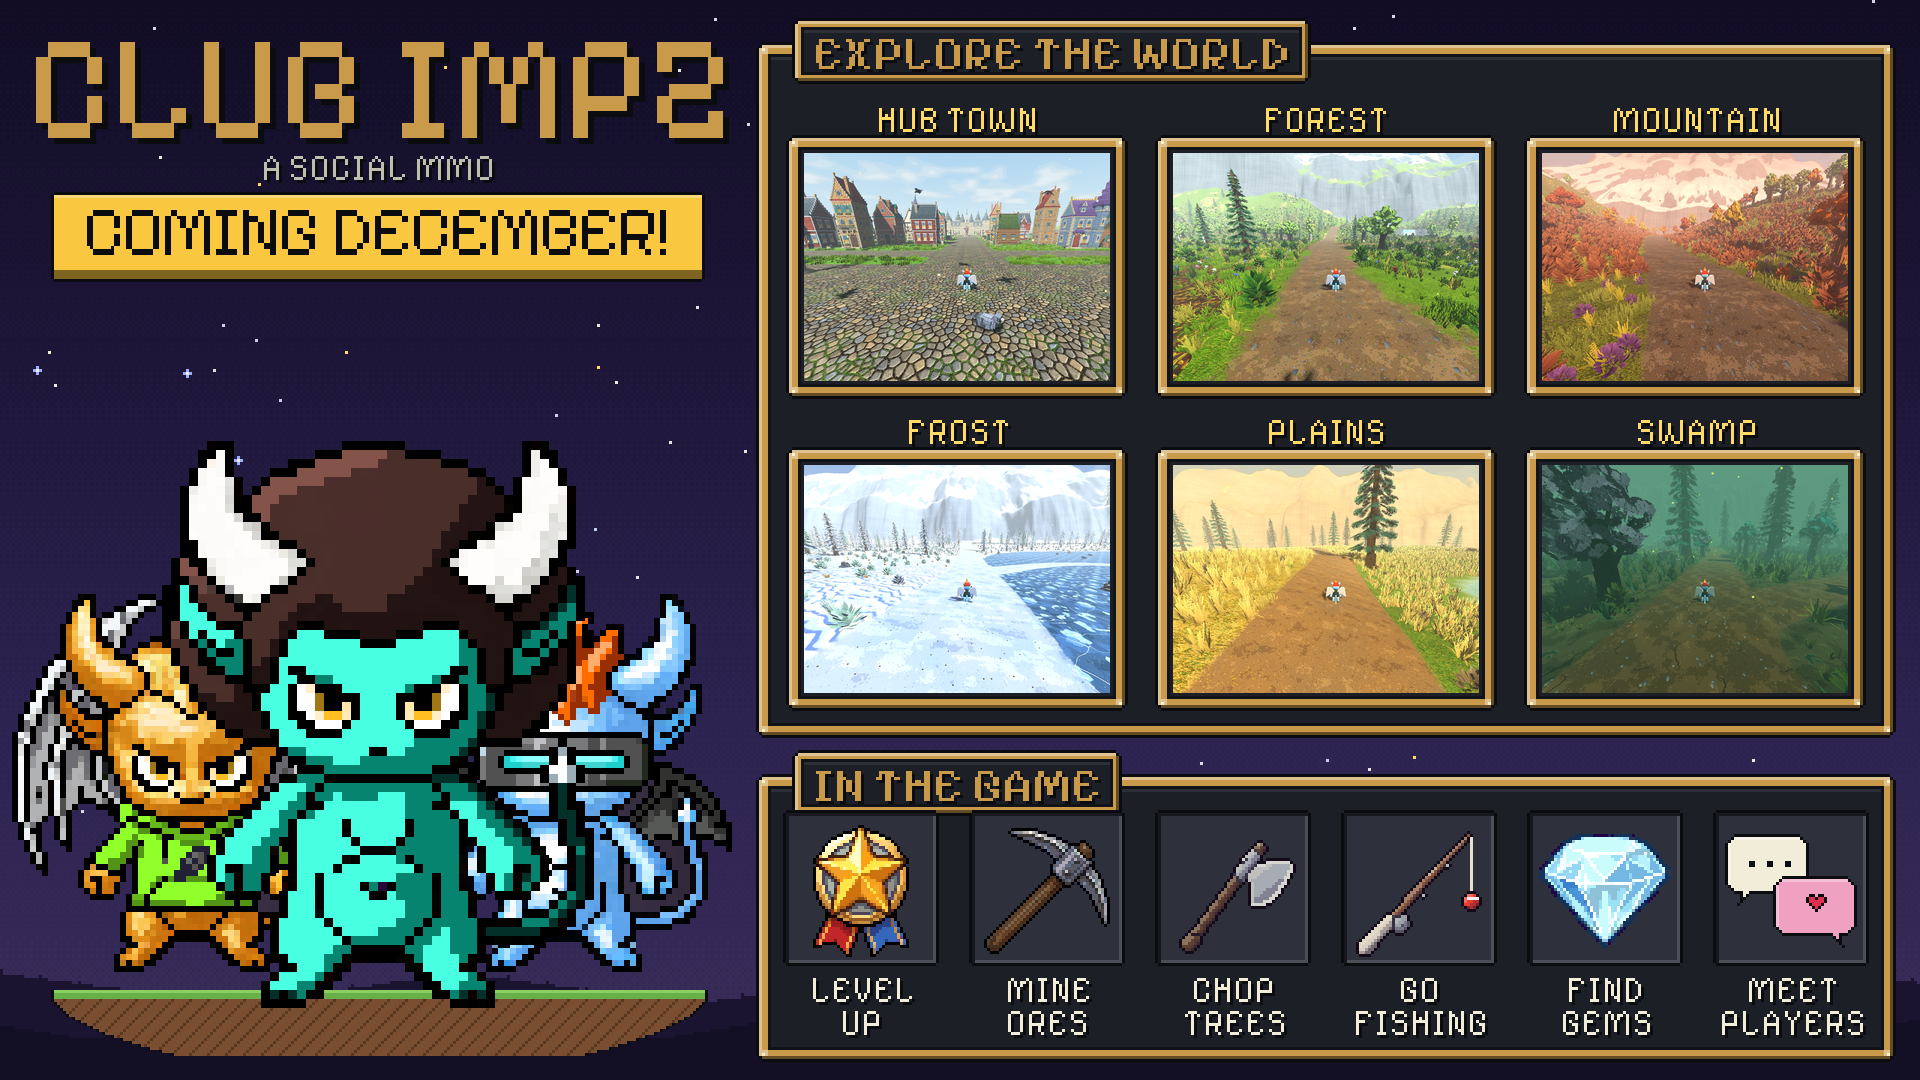
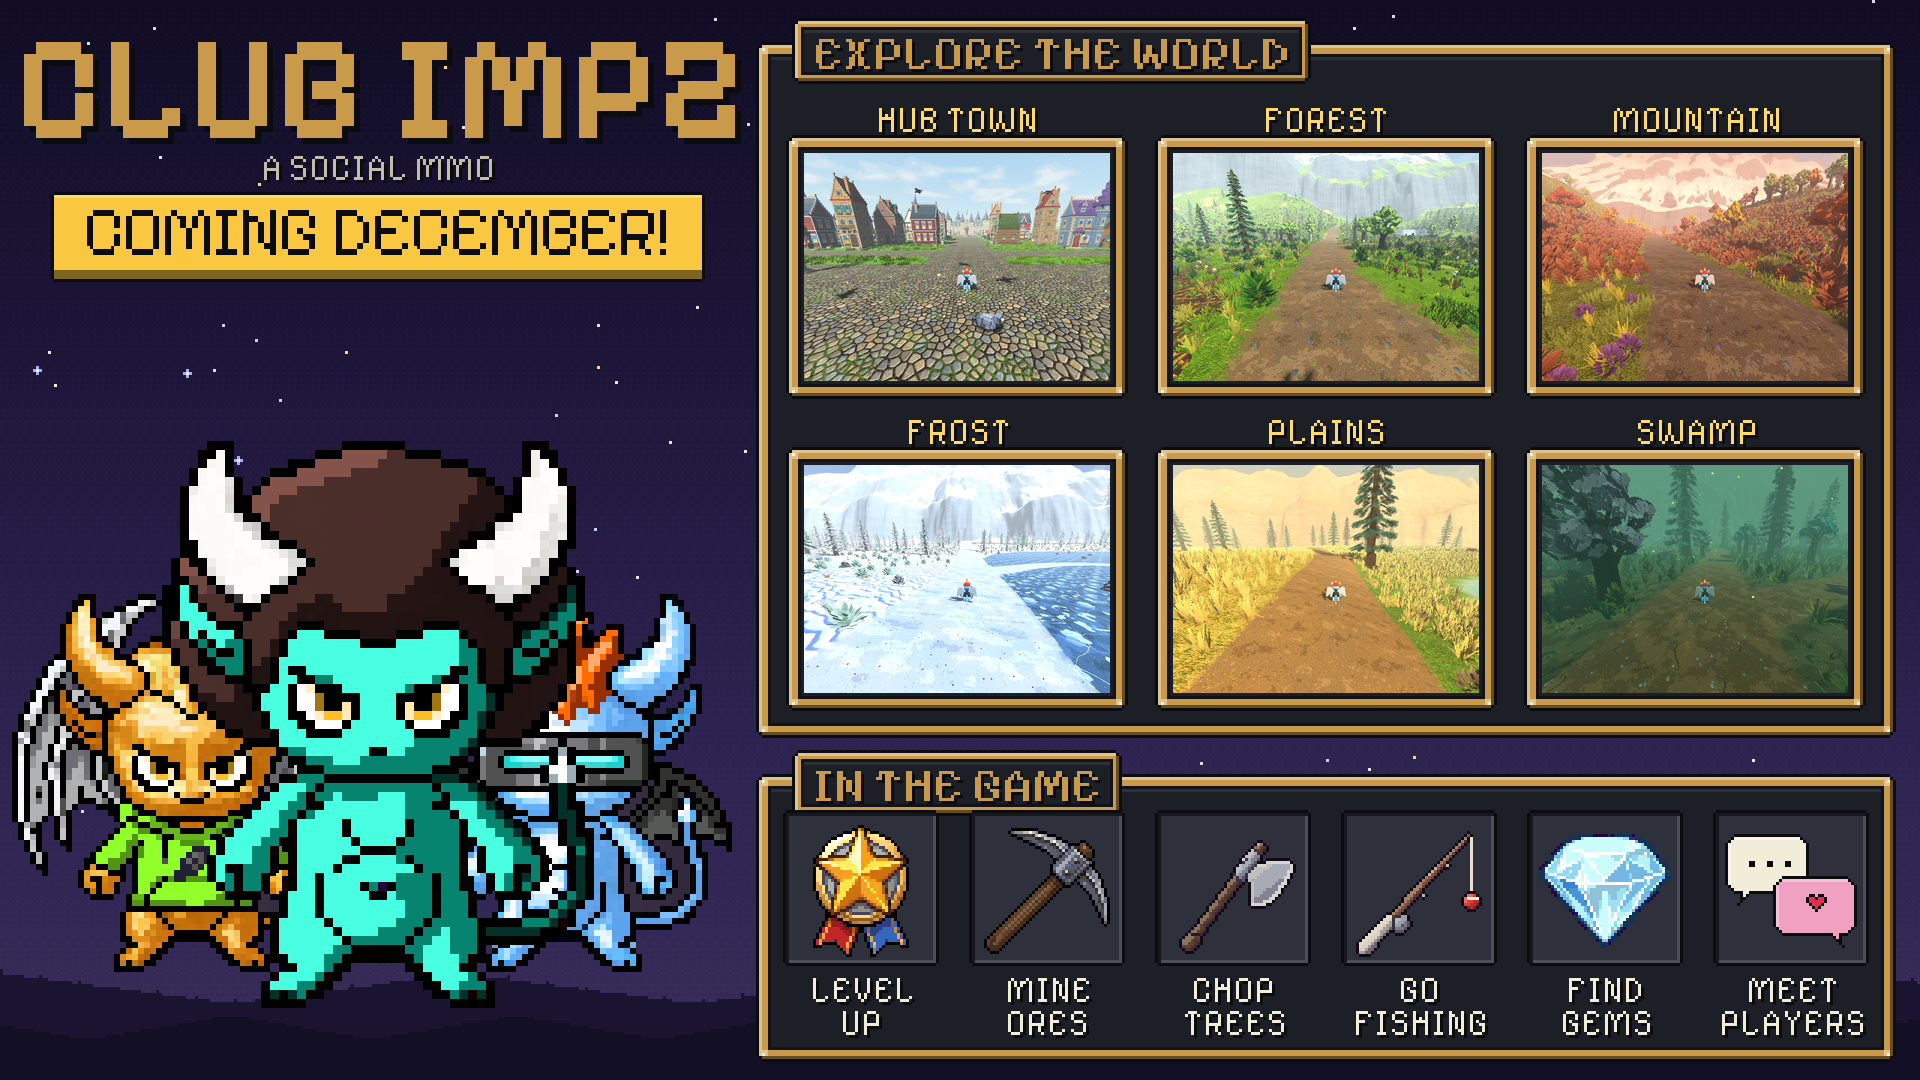
Poster: bold title, no ground under the Impz, 3D Impz version
- CLUB IMPZ uses Pixelify Sans Bold (the font's variable weight axis).
- The grass island under the heroes is gone.
- `--3d` writes first_release_poster_3d.png with the three Impz rendered from
  their Blockbench models (tools/posters/render_impz.gd, the game's ImpBuilder),
  so the 2D and 3D versions can be compared.

Changed region(s): [[0.0312, 0.9167, 0.375, 0.9778], [0.2188, 0.0306, 0.4062, 0.1528], [0.0, 0.0306, 0.1875, 0.1222]]

diff --git a/tools/posters/first_release_poster.py b/tools/posters/first_release_poster.py
@@ -4,17 +4,22 @@ Follows docs/posters.md: drawn on a 640 x 360 art canvas in the menu look
 (ui_kit.gd colours, gold bevelled frames, Pixelify Sans), then scaled x3 with
 nearest-neighbour to 1920 x 1080.
 
-    python tools/posters/first_release_poster.py
+    python tools/posters/first_release_poster.py         # 2D pixel Impz (the collection art)
+    python tools/posters/first_release_poster.py --3d    # 3D Impz (Blockbench renders)
 
-Writes docs/images/posters/first_release_poster.png.
+Writes docs/images/posters/first_release_poster.png, or first_release_poster_3d.png with --3d.
+The 3D renders come from tools/posters/render_impz.gd.
 """
 from pathlib import Path
 import random
+import sys
 
 from PIL import Image, ImageDraw, ImageFont
 
 ROOT = Path(__file__).resolve().parents[2]
-OUT = ROOT / "docs/images/posters/first_release_poster.png"
+HEROES_3D = "--3d" in sys.argv
+OUT = ROOT / ("docs/images/posters/first_release_poster_3d.png" if HEROES_3D else "docs/images/posters/first_release_poster.png")
+RENDERS = ROOT / "docs/images/posters/first_release_impz_3d"
 FONT = ROOT / "godot-game/ui/fonts/PixelifySans.ttf"
 ITEMS = ROOT / "godot-game/assets/sprites/source/items"
 PICKAXES = ROOT / "godot-game/assets/sprites/source/pickaxes"
@@ -65,8 +70,11 @@ draw = ImageDraw.Draw(img)
 draw.fontmode = "1"     # no anti-aliasing on text
 
 
-def font(size):
-    return ImageFont.truetype(str(FONT), size)
+def font(size, bold=False):
+    f = ImageFont.truetype(str(FONT), size)
+    if bold:
+        f.set_variation_by_name("Bold")   # Pixelify Sans is a variable font, 400 to 700
+    return f
 
 
 # ---------------------------------------------------------------- primitives
@@ -185,15 +193,15 @@ def pill(x0, y0, w, h, fill, lip=2):
             put(x0 + x, y0 + y, col)
 
 
-def text(x, y, s, size, color, shadow=2, anchor="la"):
-    f = font(size)
+def text(x, y, s, size, color, shadow=2, anchor="la", bold=False):
+    f = font(size, bold)
     if shadow:
         draw.text((x + shadow, y + shadow), s, font=f, fill=OUTLINE, anchor=anchor)
     draw.text((x, y), s, font=f, fill=color, anchor=anchor)
 
 
-def text_w(s, size):
-    b = font(size).getbbox(s)
+def text_w(s, size, bold=False):
+    b = font(size, bold).getbbox(s)
     return b[2] - b[0]
 
 
@@ -324,8 +332,8 @@ for n, (a, b, icon) in enumerate(FEATURES):
 # ---------------------------------------------------------------- left: title
 
 LX, LW = 8, 236
-tw = text_w("CLUB IMPZ", 48)
-text(LX + LW // 2 - tw // 2, 0, "CLUB IMPZ", 48, GOLD, shadow=2)
+tw = text_w("CLUB IMPZ", 48, bold=True)
+text(LX + LW // 2 - tw // 2, 0, "CLUB IMPZ", 48, GOLD, shadow=2, bold=True)
 sub = "A SOCIAL MMO"
 text(LX + LW // 2 - text_w(sub, 12) // 2, 48, sub, 12, MUTED, shadow=1)
 # COMING DECEMBER! on a raised amber pill
@@ -361,27 +369,15 @@ def cut_out(path):
     return im
 
 
-def ground(cx, top, half, depth):
-    """A small floating grass island for the heroes to stand on."""
-    for j in range(depth):
-        hw = half - (j * j) // max(depth // 2, 1) if j > 3 else half
-        for i in range(-hw, hw + 1):
-            if j < 3:
-                c = hexc("#6ab04a") if j else hexc("#8ad060")
-            else:
-                c = hexc("#7a4e30") if (i + j) % 6 else hexc("#5a3820")
-            put(cx + i, top + j, c)
-        put(cx - hw - 1, top + j, OUTLINE)
-        put(cx + hw + 1, top + j, OUTLINE)
-
-
-ground(LX + LW // 2, 330, 108, 22)
-left = cut_out(BODIES / "body_gold_408.png")
-right = cut_out(BODIES / "body_diamond_158.png")
-hero = cut_out(BODIES / "body_cyan_111.png")
-paste(left, LX - 8, 330 - 134, 2)
-paste(right, LX + LW - 120, 330 - 134, 2)
-paste(hero, LX + LW // 2 - 96, 330 - 186, 3)
+hero_slots = []          # 3D renders: (file, art x, art y, art size), pasted at full size after the x3 scale
+if HEROES_3D:
+    hero_slots += [(RENDERS / "gold_408.png", LX - 20, 188, 140),
+                   (RENDERS / "diamond_158.png", LX + LW - 124, 188, 140),
+                   (RENDERS / "cyan_111.png", LX + LW // 2 - 92, 168, 176)]
+else:
+    paste(cut_out(BODIES / "body_gold_408.png"), LX - 8, 330 - 134, 2)
+    paste(cut_out(BODIES / "body_diamond_158.png"), LX + LW - 120, 330 - 134, 2)
+    paste(cut_out(BODIES / "body_cyan_111.png"), LX + LW // 2 - 96, 330 - 186, 3)
 
 # ---------------------------------------------------------------- save
 
@@ -389,6 +385,9 @@ OUT.parent.mkdir(parents=True, exist_ok=True)
 big = img.convert("RGB").resize((W * SCALE, H * SCALE), Image.NEAREST)
 for x, y, w, h, f in shot_slots:      # the screenshots stay sharp: full screen resolution, not art pixels
     big.paste(Image.open(f).convert("RGB").resize((w * SCALE, h * SCALE), Image.LANCZOS), (x * SCALE, y * SCALE))
+for f, x, y, size in hero_slots:
+    r = Image.open(f).convert("RGBA").resize((size * SCALE, size * SCALE), Image.LANCZOS)
+    big.paste(r, (x * SCALE, y * SCALE), r)
 tmp = OUT.with_name(OUT.stem + ".tmp.png")
 big.save(tmp)
 tmp.replace(OUT)
